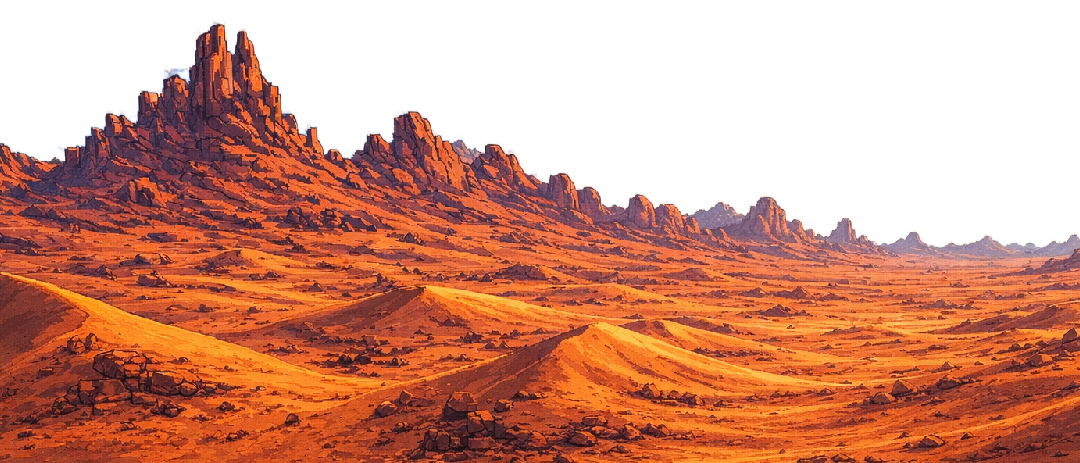
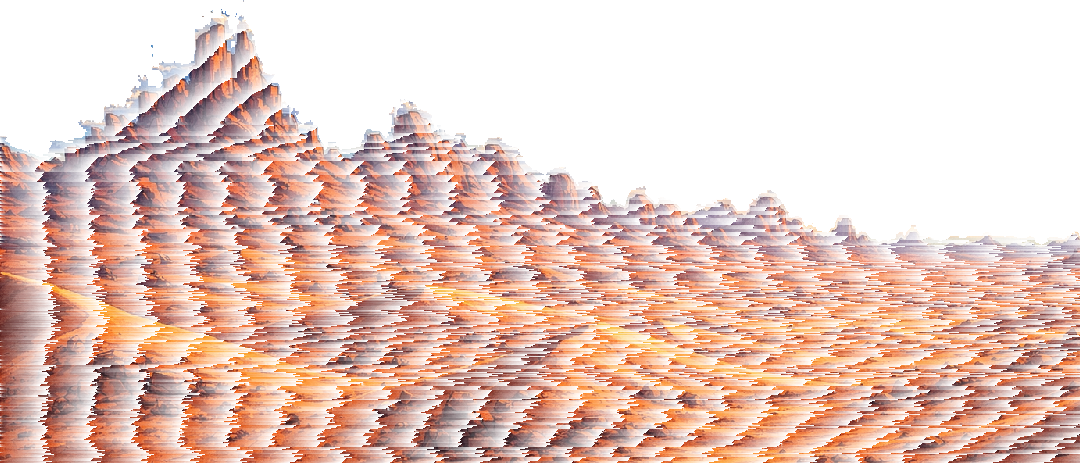
Fix audio tracks, prisoner animations, intro slides, and PNG alpha
Changes:
1. music-tracks.js: Add new 'reverie' and 'symphony' audio tracks
2. galactic-map.js: Play 'symphony' track for galactic map
3. game.js: Play 'reverie' track for tutorial level
4. entity-collectibles.js: Fix prisoner animations - use full.png base
   with 2 hands down when waiting, 1 hand up when liberated
5. intro-cinematic.js: Remove box from story slide, keep text with
   star background; fix composite operations for planet/asteroid layers
6. Fix alpha channels in slide1_tank.png and slide1_mountains.png
   (set proper alpha=250 for visible pixels)

diff --git a/js/intro-cinematic.js b/js/intro-cinematic.js
@@ -641,25 +641,19 @@
     const typeSpeed=32;
     const revealed=Math.floor(elapsed*typeSpeed);
 
-    const blockW=640, blockH=210, blockX=W/2 - blockW/2, blockY=H/2 - blockH/2 + 8;
     const fade=Math.min(1,local/0.9,(STORY_TIME-local)/1.05);
-    g.save(); g.globalAlpha=fade;
-    g.fillStyle='rgba(3,10,22,0.62)'; g.fillRect(blockX-18, blockY-26, blockW+36, blockH+36);
-    g.strokeStyle='rgba(90,220,255,0.22)'; g.lineWidth=1; g.strokeRect(blockX-18+0.5, blockY-26+0.5, blockW+36-1, blockH+36-1);
-    g.globalAlpha=fade*0.10; g.fillStyle='#00eaff';
-    for(let y=blockY-26;y<blockY+blockH+10;y+=4) g.fillRect(blockX-18, y, blockW+36, 1);
-    g.restore();
 
     g.save(); g.globalAlpha=fade;
     let charCount=0;
     g.textBaseline='middle';
+    const startY = 180;
     for(let i=0;i<lines.length;i++){
       const line=lines[i];
       const lineStart=lines.slice(0,i).reduce((a,l)=>a+l.length+12,0);
       let visibleCount=0;
       if(revealed>lineStart) visibleCount=Math.min(line.length, revealed-lineStart);
       const visibleText=line.slice(0,visibleCount);
-      const y=blockY + 26 + i*62;
+      const y=startY + i*62;
       g.font='bold 16px "Courier New", monospace';
       const fullWidth=g.measureText(line).width;
       const targetX=W/2;
@@ -792,6 +786,7 @@
 
     g.save();
     g.translate(W/2, H/2); g.scale(zoom, zoom); g.translate(-W/2, -H/2);
+    g.globalAlpha=1; g.globalCompositeOperation='source-over';
     drawLayer('spacePlanet', 125, p, fallbackSpacePlanet);
     // Planet atmospheric glow enhanced
     g.save(); g.globalCompositeOperation='lighter';
@@ -808,7 +803,9 @@
     drawShip(shipX, shipY, 0.38 + shipP * 0.46, now / 1000, slideShips[1], local, slideFire[1]);
 
     // More asteroids + parallax dust
+    g.save(); g.globalAlpha=1; g.globalCompositeOperation='source-over';
     drawLayer('spaceAsteroids', 250, p, fallbackAsteroids);
+    g.restore();
     g.save(); g.globalCompositeOperation='lighter';
     for(let i=0;i<22;i++){
       const x=((now*0.04 + i*97)%(W+160))-80;

diff --git a/js/entity-collectibles.js b/js/entity-collectibles.js
@@ -33,14 +33,13 @@
     const phase=pow.t*(pow.state==='free'?9:2.5);
     g.save();g.translate(Math.round(sx),Math.round(pow.y-bounce));if(pow.facing<0)g.scale(-1,1);
     const layer=function(img,px,py,angle,ox,oy){if(!img||!img.naturalWidth)return;g.save();g.translate((px-sourceW/2)*scale+(ox||0),(py-sourceH)*scale+(oy||0));if(angle)g.rotate(angle);g.drawImage(img,-px*scale,-py*scale,sourceW*scale,sourceH*scale);g.restore()};
-    // hand_down is always the first/background layer by art contract.
-    layer(parts.hand_down,sourceW*.62,sourceH*.37,pow.state==='free'?Math.sin(phase)*.08:0,0,0);
-    const stride=pow.state==='free'?Math.sin(phase)*.08:0;
-    layer(parts.leg02,sourceW*.34,sourceH*.62,-stride,0,0);
-    layer(parts.leg01,sourceW*.61,sourceH*.62,stride,0,0);
-    layer(parts.torso,sourceW*.5,sourceH*.38,Math.sin(phase*.45)*.015,0,0);
-    if(parts.head)layer(parts.head,sourceW*.42,sourceH*.2,Math.sin(phase*.35)*.04,0,-1);
-    layer(parts.hand_up,sourceW*.68,sourceH*.29,pow.state==='free'?-0.25+Math.sin(phase)*.28:Math.sin(phase)*.025,0,pow.state==='free'?-3:0);
+    // Use full.png as base (includes 2 hands in natural down position).
+    layer(parts.full,sourceW*.5,sourceH*.5,0,0,0);
+    // When waiting (tied): full.png shows 2 hands down. No extra hand sprites.
+    // When liberated (free): overlay hand_up at raised position = 1 hand up, other stays down from full.
+    if(pow.state==='free'){
+      layer(parts.hand_up,sourceW*.68,sourceH*.29,-0.25+Math.sin(phase)*.28,0,-3);
+    }
     g.restore();return true;
   }
 

diff --git a/js/galactic-map.js b/js/galactic-map.js
@@ -2,7 +2,7 @@
 (function () {
   const canvas=document.getElementById('galactic-map'),g=canvas.getContext('2d');
   g.imageSmoothingEnabled=false;const W=960,H=540;
-  MusicTracks.play('overture');
+  MusicTracks.play('symphony');
   const query=new URLSearchParams(location.search),mode=query.get('mode')||'arcade';
   const character=query.get('character')||localStorage.getItem('dh_character')||'juan_p';
   const language=localStorage.getItem('dh_language')||'en';

diff --git a/js/music-tracks.js b/js/music-tracks.js
@@ -44,6 +44,8 @@
     overture: 'assets/audio/Star_Map_Overture.mp3',
     level1: 'assets/audio/Sandbyte_Ambush.mp3',
     space: 'assets/audio/Star_Map01.mp3',
+    reverie: 'assets/audio/Star_Map_Reverie.mp3',
+    symphony: 'assets/audio/Star_Map_Symphony.mp3',
   };
   const audio = new Audio();
   audio.loop = true;

diff --git a/js/game.js b/js/game.js
@@ -358,7 +358,7 @@
     if (effectiveMode === 'tutorial') {
       // tutorial entrance slightly shorter, less invuln
       if (G.intro) G.intro.t = 0.6;
-      MusicTracks.play('level1');
+      MusicTracks.play('reverie');
     } else {
       MusicTracks.play('level1');
     }
